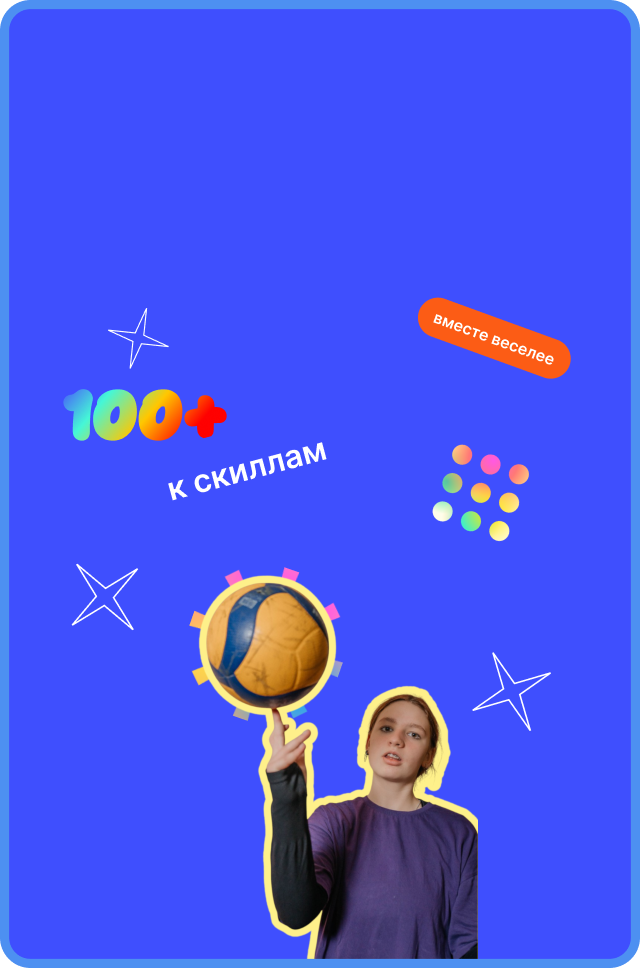
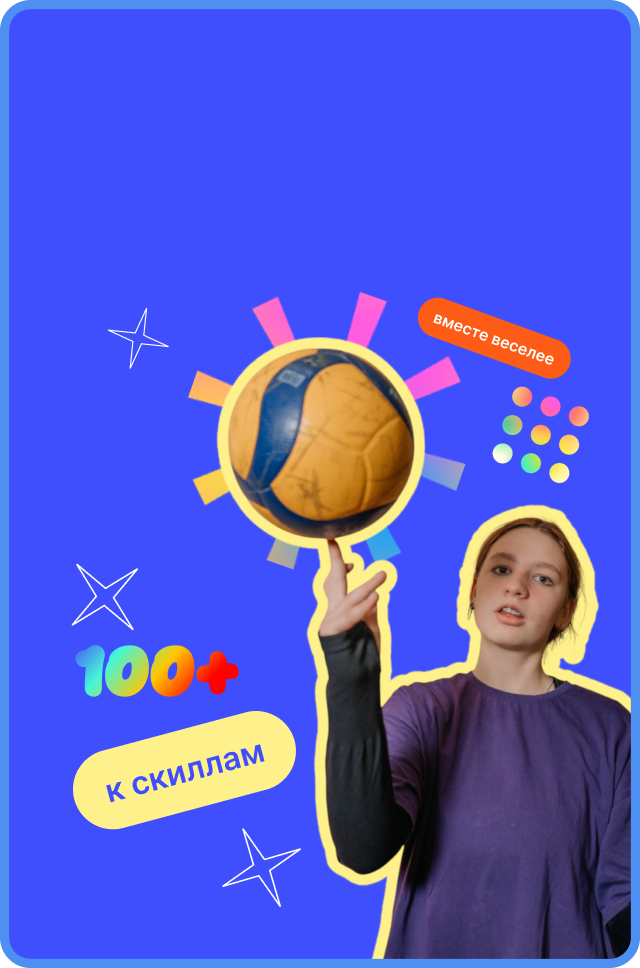
fix(app): replace  mobile promo image

diff --git a/src/widgets/banner/ui/banner.tsx b/src/widgets/banner/ui/banner.tsx
@@ -19,7 +19,7 @@ export function Banner() {
           alt="Баннер синего цвета с декоративными иконками и слева надпись 'приведи друга'"
         />
         <Image
-          className="absolute top-0 left-0 xl:hidden"
+          className="absolute top-0 left-0 object-contain xl:hidden"
           src="/banner/promo-mobile.png"
           fill
           quality={100}
